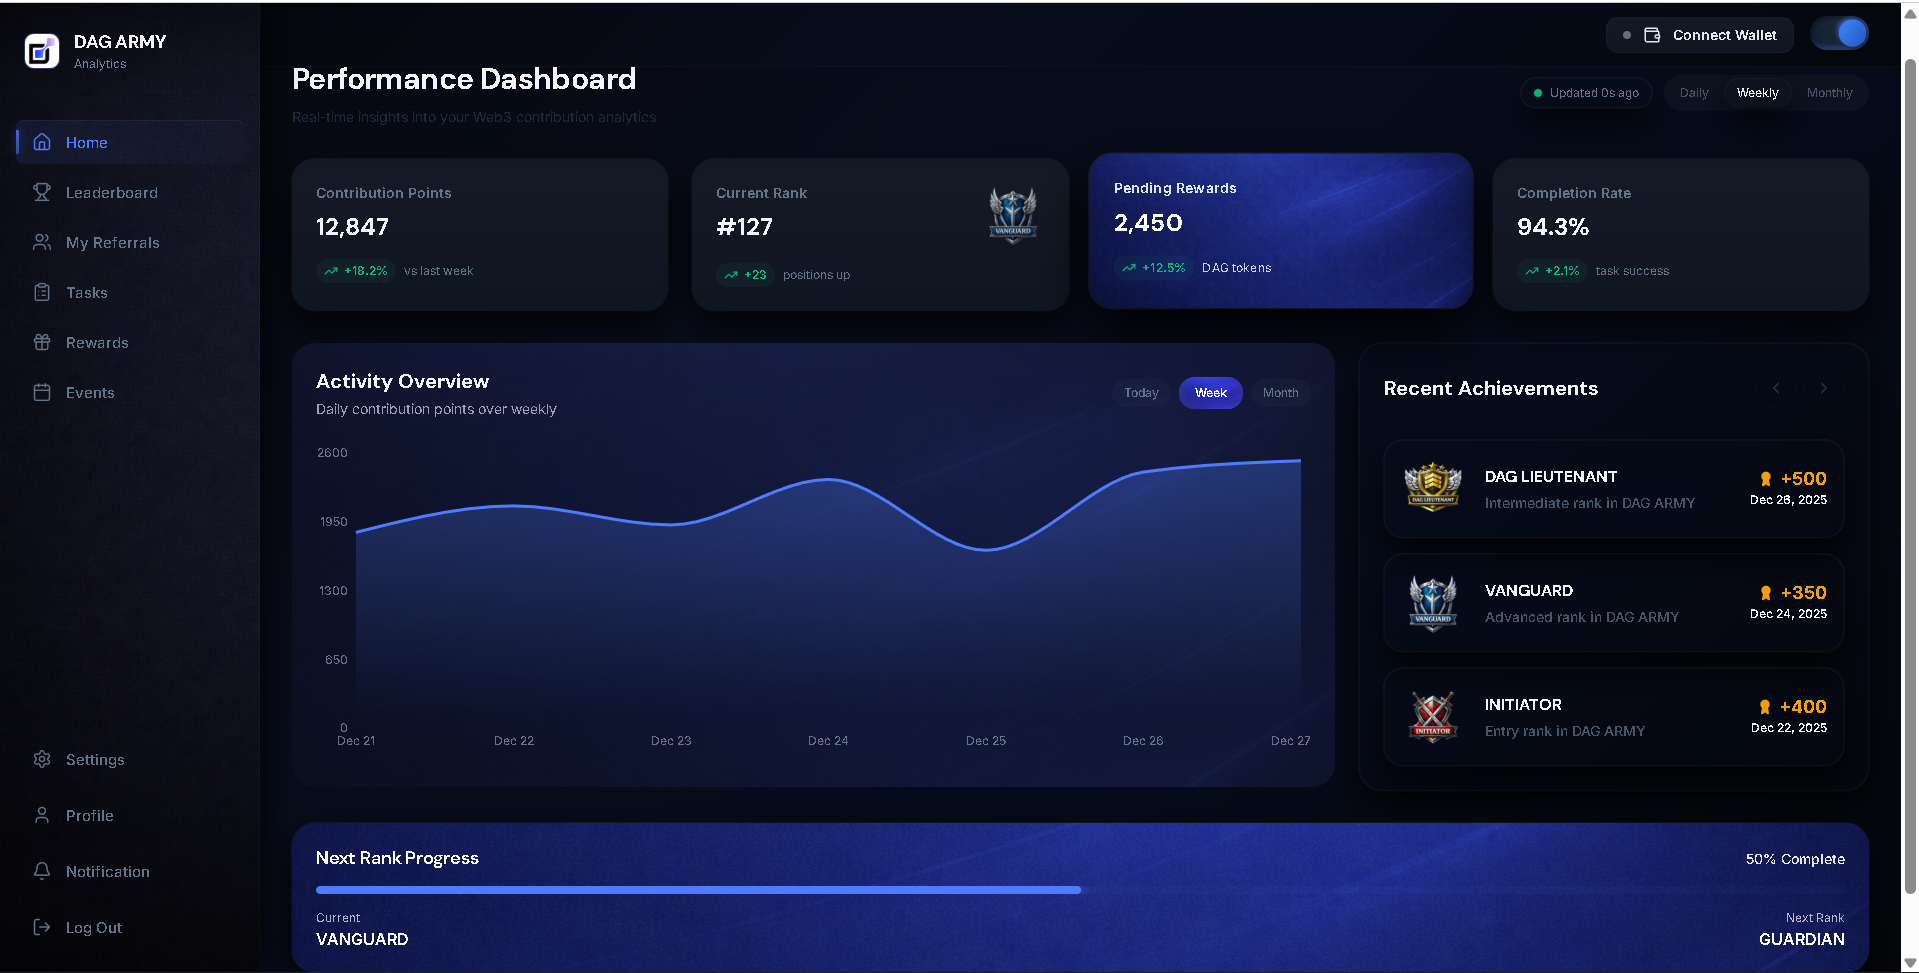
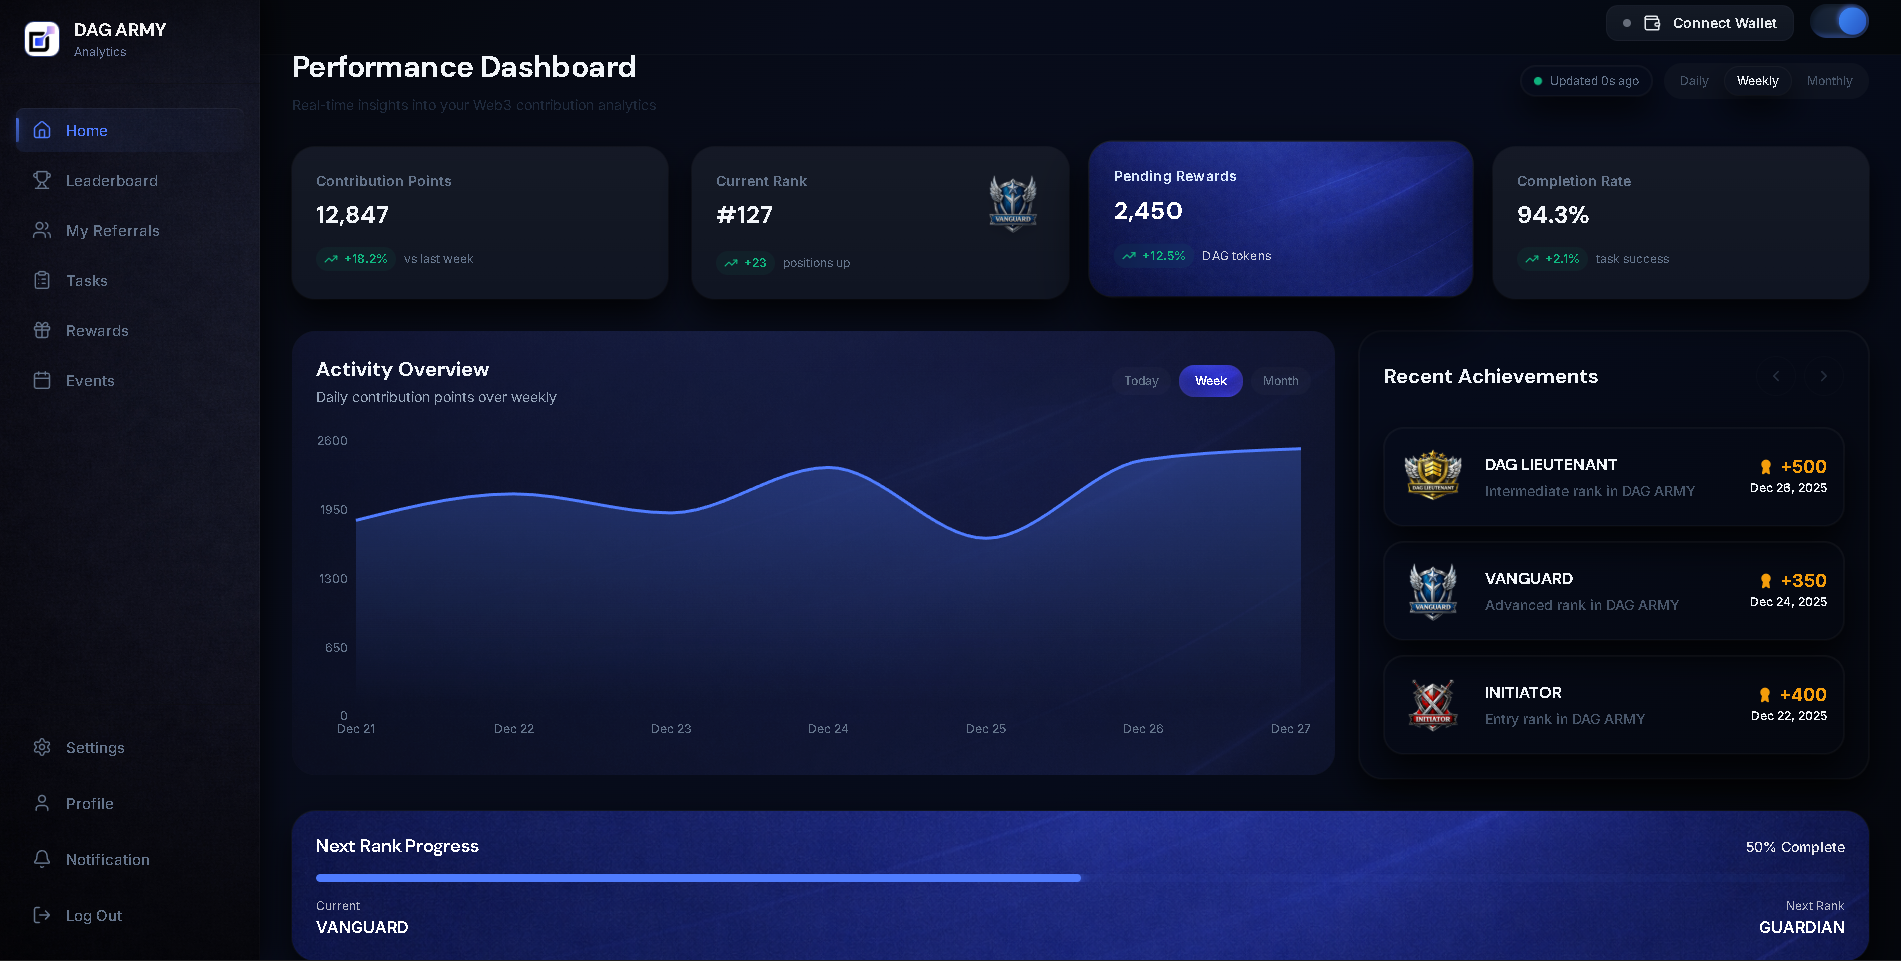
feat: Update hero dashboard image and DAG ARMY Journey content
- Replaced hero dashboard image with new dark theme dashboard (images/darkthemedashboard.png)
- Updated Step 1: Join as DAG Soldier - Added detailed description about automatic enrollment
- Updated Step 2: Become DAG Lieutenant - Clarified + service requirement and benefits
- Updated Step 3: Achieve DAG General - Added qualification details (50K points or  sales)
- All step descriptions now confined to 2-3 lines for better readability

diff --git a/index.html b/index.html
@@ -237,7 +237,7 @@
                     </div>
                     <div style="-webkit-transform:translate3d(0, 35px, 0) scale3d(1, 1, 1) rotateX(0) rotateY(0) rotateZ(0) skew(0, 0);-moz-transform:translate3d(0, 35px, 0) scale3d(1, 1, 1) rotateX(0) rotateY(0) rotateZ(0) skew(0, 0);-ms-transform:translate3d(0, 35px, 0) scale3d(1, 1, 1) rotateX(0) rotateY(0) rotateZ(0) skew(0, 0);transform:translate3d(0, 35px, 0) scale3d(1, 1, 1) rotateX(0) rotateY(0) rotateZ(0) skew(0, 0);opacity:0;filter:blur(5px)"
                         class="hero-bottom-wrap">
-                        <div class="hero-dashboard-wrap"><img src="dashboard-hero.jpeg" loading="lazy"
+                        <div class="hero-dashboard-wrap"><img src="images/darkthemedashboard.png" loading="lazy"
                                 alt="DAG ARMY Dashboard" class="hero-dashboard" /></div>
                         <div class="hero-bottom-shadow"></div>
                     </div>
@@ -617,9 +617,10 @@
                                         loading="lazy" alt="Simple Icon" class="simple-point" />
                                     <div class="simple-text-wrap">
                                         <div data-w-id="e6adac5e-a8ad-f11a-dbf1-5aa6b90ead3f" class="paragraph-01">Step
-                                            1 – DAG Soldier</div>
-                                        <div class="paragraph-02 simple-subtitle">Join DAGCHAIN or DAGGPT. No payment.
-                                            No approval.</div>
+                                            1 – Join as DAG Soldier</div>
+                                        <div class="paragraph-02 simple-subtitle">Join DAGCHAIN or DAGGPT and
+                                            automatically become a DAG Soldier.
+                                            No payment. No approval. Entry point into DAG ARMY.</div>
                                     </div>
                                 </div>
                             </div>
@@ -629,9 +630,10 @@
                                         loading="lazy" alt="Simple Icon" class="simple-point" />
                                     <div class="simple-text-wrap">
                                         <div data-w-id="c77bb3fb-9ca9-cb05-3863-9719a63d4f52" class="paragraph-01">Step
-                                            2 – DAG Lieutenant</div>
-                                        <div class="paragraph-02 simple-subtitle">Purchase any service worth $149+.
-                                            Unlock higher participation and airdrops.</div>
+                                            2 – Become DAG Lieutenant</div>
+                                        <div class="paragraph-02 simple-subtitle">Upgrade from Soldier by purchasing any
+                                            DAGCHAIN or DAGGPT service worth $149 or more.
+                                            This unlocks higher participation and increased weekly airdrops.</div>
                                     </div>
                                 </div>
                             </div>
@@ -641,9 +643,10 @@
                                         loading="lazy" alt="Simple Icon" class="simple-point" />
                                     <div class="simple-text-wrap">
                                         <div data-w-id="3a584457-2564-64a2-df79-35b6ef7ff504" class="paragraph-01">Step
-                                            3 – DAG General</div>
-                                        <div class="paragraph-02 simple-subtitle">Earn 50,000 Points or $1,000 sales.
-                                            Access top-tier status and influence.</div>
+                                            3 – Achieve DAG General</div>
+                                        <div class="paragraph-02 simple-subtitle">Qualify as an active DAG Lieutenant by
+                                            earning 50,000 DAG Points or generating $1,000 in sales.
+                                            This grants top-tier status, influence, and priority access.</div>
                                     </div>
                                 </div>
                             </div>
